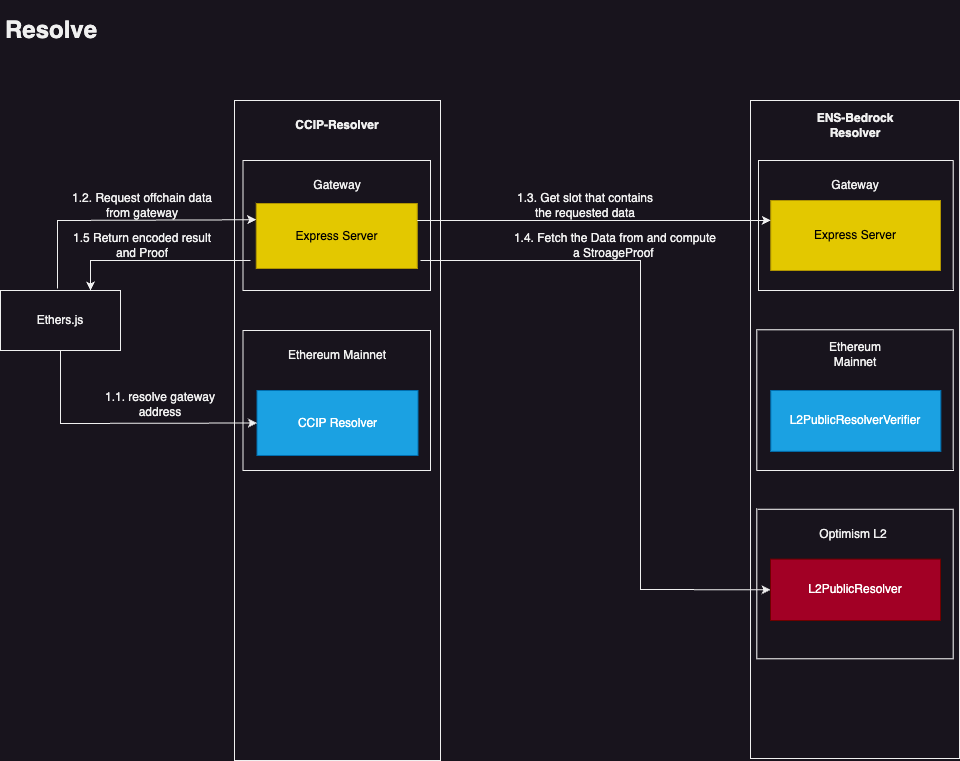
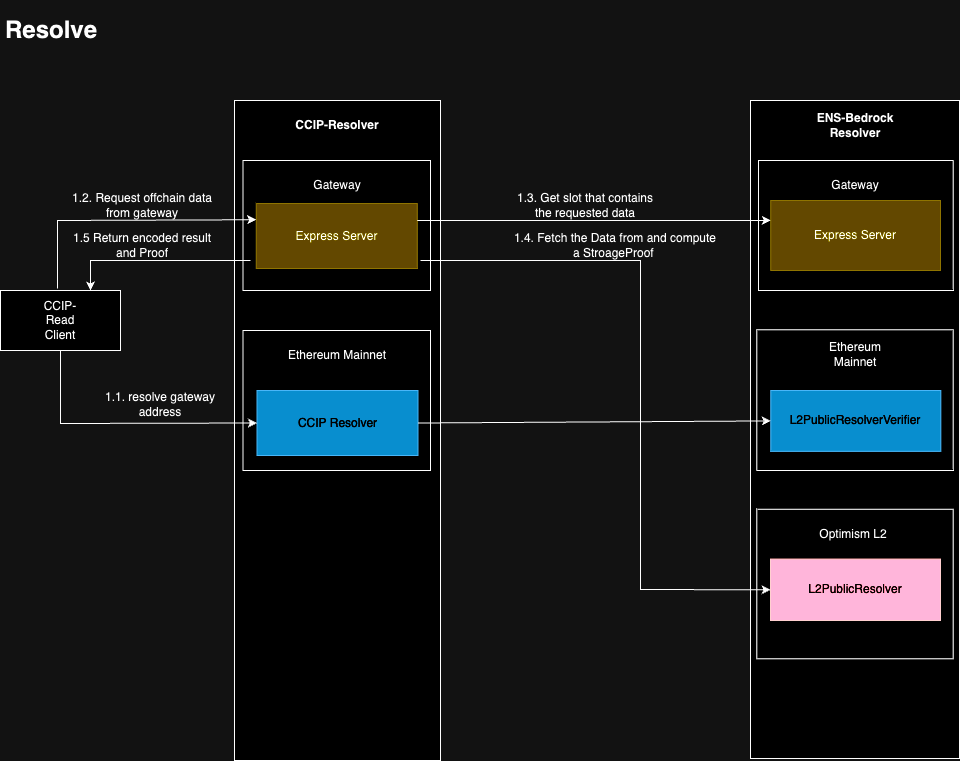
add diagramm for resolveWithProof

diff --git a/README.md b/README.md
@@ -81,6 +81,25 @@ error OffchainLookup(address sender, string[] urls, bytes callData, bytes4 callb
 
 1.5 It returns the encoded result along with its proof.
 
+## ResolverWithProof
+Resolve that the response from the gateway is part of the optimism state and is originated from the resolver contract specified in the Verifier
+![resolve](./ResolveWithProof-diagramm.png)
+
+2.1 Call 'resolveWithProof' with the data retrieved from Step 1 and the original calldata.
+
+2.2 Call 'onResolveWithProof' to determine which callback selector should be used to perform 'resolveWithProof' in order to support other EVM data types than bytes.
+
+2.3 Invoke the selector returned in step 2.2 to execute 'resolveWithProof.' This function performs the actual Merkle proof and returns the encoded data.
+
+2.4 If step 2.3 was successful, the function returns the result. Otherwise, it reverts for the following reasons:
+
+1. If the proof target address does not match the address specified in the L2PublicResolverVerifier, an error message stating 'proof target does not match resolver' will be displayed. This security measure prevents malicious actors from deploying a different L2PublicResolver contract that could potentially return malicious data.
+2. If step 2.3 was successful, the function returns the result. However, if the result does not match the value stored in the slot, the contract reverts with the error message 'proof does not match response.'
+3. The contract will revert if the state root has not been committed to L1. This situation occurs when the stateRoot has not yet been pushed to the L2OutputOracle contract by the sequencer. It's important to note that it might take up to 30 minutes for a newly set record to become available and be successfully resolved. In that case the contract reverts with 'Account is not part of the provided state root'
+4. The proof may also be considered invalid for other reasons, often indicating an error in the gateway.
+   
+   
+
 # Setup Gateway
 
 ## Install
